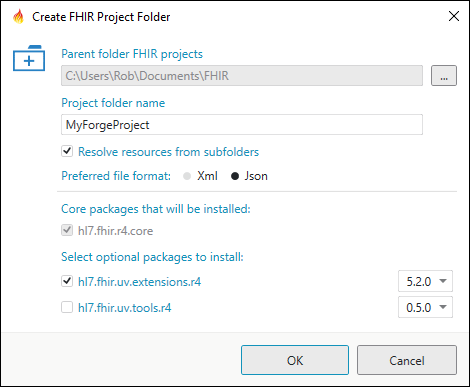
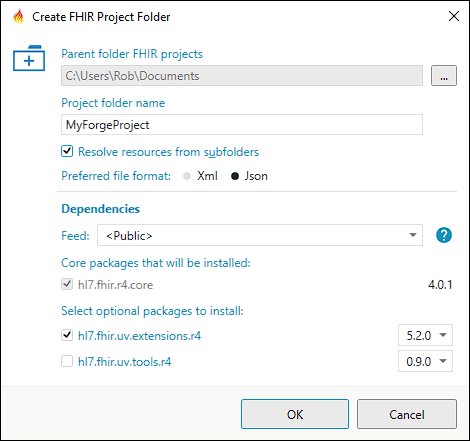
Added package feed documentation + update release notes.

diff --git a/conf.py b/conf.py
@@ -18,7 +18,7 @@
 # -- Project information -----------------------------------------------------
 
 project = 'Forge'
-copyright = '2025, Firely'
+copyright = '2026, Firely'
 author = 'Firely'
 
 

diff --git a/features/CreateDerivedProfiles.rst b/features/CreateDerivedProfiles.rst
@@ -32,12 +32,17 @@ profile.
    :alt: The hierarchy between FHIR profiles
    :width: 674
 
-Adding dependencies
--------------------
+Dependencies
+------------
 
-To do this in Forge you first need to add one or more Core Packages. The
-following example adds the **hl7.fhir.us.core** package to the project.
-Select the ``Dependencies`` tab, then click ``Simplifier``, then type
+To do this in Forge you first need to add one or more Core Packages.
+
+Adding a public package
+-----------------------
+
+The following example adds the **hl7.fhir.us.core** package to the project.
+
+Select the ``Dependencies`` tab, click ``Public``, then type
 *hl7.fhir.us* in the **Search** field and finally click ``Search``.
 Select **hl7.fhir.us.core** in the list and then select package version
 **6.1.0**. Finally click ``Add`` to add the package to the project.
@@ -45,6 +50,44 @@ Select **hl7.fhir.us.core** in the list and then select package version
 .. figure:: ../images/DerivedAddPackage.png
    :alt: Add a core package
    :width: 850
+
+Adding a package from a feed
+----------------------------
+
+Package feeds allow organizations to manage private FHIR packages using controlled dependencies and distribution boundaries.
+See the `Simplifier documentation for more information <https://docs.fire.ly/projects/Simplifier/data_governance_and_quality_control/simplifierPackageFeeds.html>`_.
+
+Click ``Open...`` to go to Simplfier and open the **Feeds** tab of your Portal. This page
+lists all the feeds that you have access to.
+
+.. figure:: ../images/SimplifierFeeds.png
+   :alt: Simplifier feeds
+   :width: 1155
+
+Click ``Feeds`` to open the **Package feed selection** dialog.
+
+.. figure:: ../images/PackageFeedSelection.png
+   :alt: Package feed selection
+   :width: 470
+
+Use the drop down combobox to select a feed. You can use the ``...`` button
+to see what packages are contained in the selected feed.
+Click ``OK`` to select the feed.
+
+.. figure:: ../images/PackageFeedListing.png
+   :alt: Package feed listing
+   :width: 1323
+
+You can now add one or more packages from the selected feed to your project.
+
+Click ``Open...`` to go to Simplfier and open the page for the selected feed.
+
+.. figure:: ../images/SimplifierFeed.png
+   :alt: Simplifier feed
+   :width: 1153
+
+Project
+-------
 
 Click the ``Project`` tab to see what packages are installed. Notice
 that dependent packages are installed too.

diff --git a/features/OpenaProjectFolder.rst b/features/OpenaProjectFolder.rst
@@ -4,8 +4,6 @@ Create or Open a Project Folder
 When you want to start working in Forge, you will first need to create or open a
 project folder (i.e. the working directory containing your profiles).
 
-
-
 .. note::
    When you select an item from your recent files, Forge will automatically open its associated project folder.
 
@@ -28,12 +26,14 @@ The **Create FHIR Project Folder** dialog is opened.
    :width: 470
 
 Enter a name for your new FHIR project folder here. You can change the default parent folder for your FHIR project. 
-The core package will be be added as a dependency to your project automatically.
-
 The following project settings are available: 
 
 * Resolve resources from subfolders
 * Preferred file format (XML or JSON)
+
+By default the feed for public packages is selected. 
+The core package will be be added as a dependency to your project automatically.
+Select/deselect optional packages as required.
 
 Click ``OK`` to create your FHIR project.
 

diff --git a/ReleaseNotes.rst b/ReleaseNotes.rst
@@ -7,7 +7,7 @@
 
    OldReleaseNotes
 
-Release 2025.2.0.6
+Release 2025.2.0.8
 ------------------
 Changes
 ^^^^^^^
@@ -69,6 +69,8 @@ Bug fixes
 * Extensions on **Slicing Details** were not loaded and could not be added.
 * When removing a type profile that contains slices, the slicing element of the slice intro was always cleared
   even when the profile itself contained additional slices which resulted in the slices being merged.
+* Simple values in lists (e.g. Timing.event) were not validated.
+* The **Key** field of a **Constraint** was not validated.
 * **[STU3]** Fixed adding unnecessary elements to the differential for choice types.
 * **[STU3]** The **Add Type** dialog now only lists the allowed types.
 * **[R5]** Interface resources **CanonicalResource** and **MetadataResource** could be selected to create derive profiles from.
